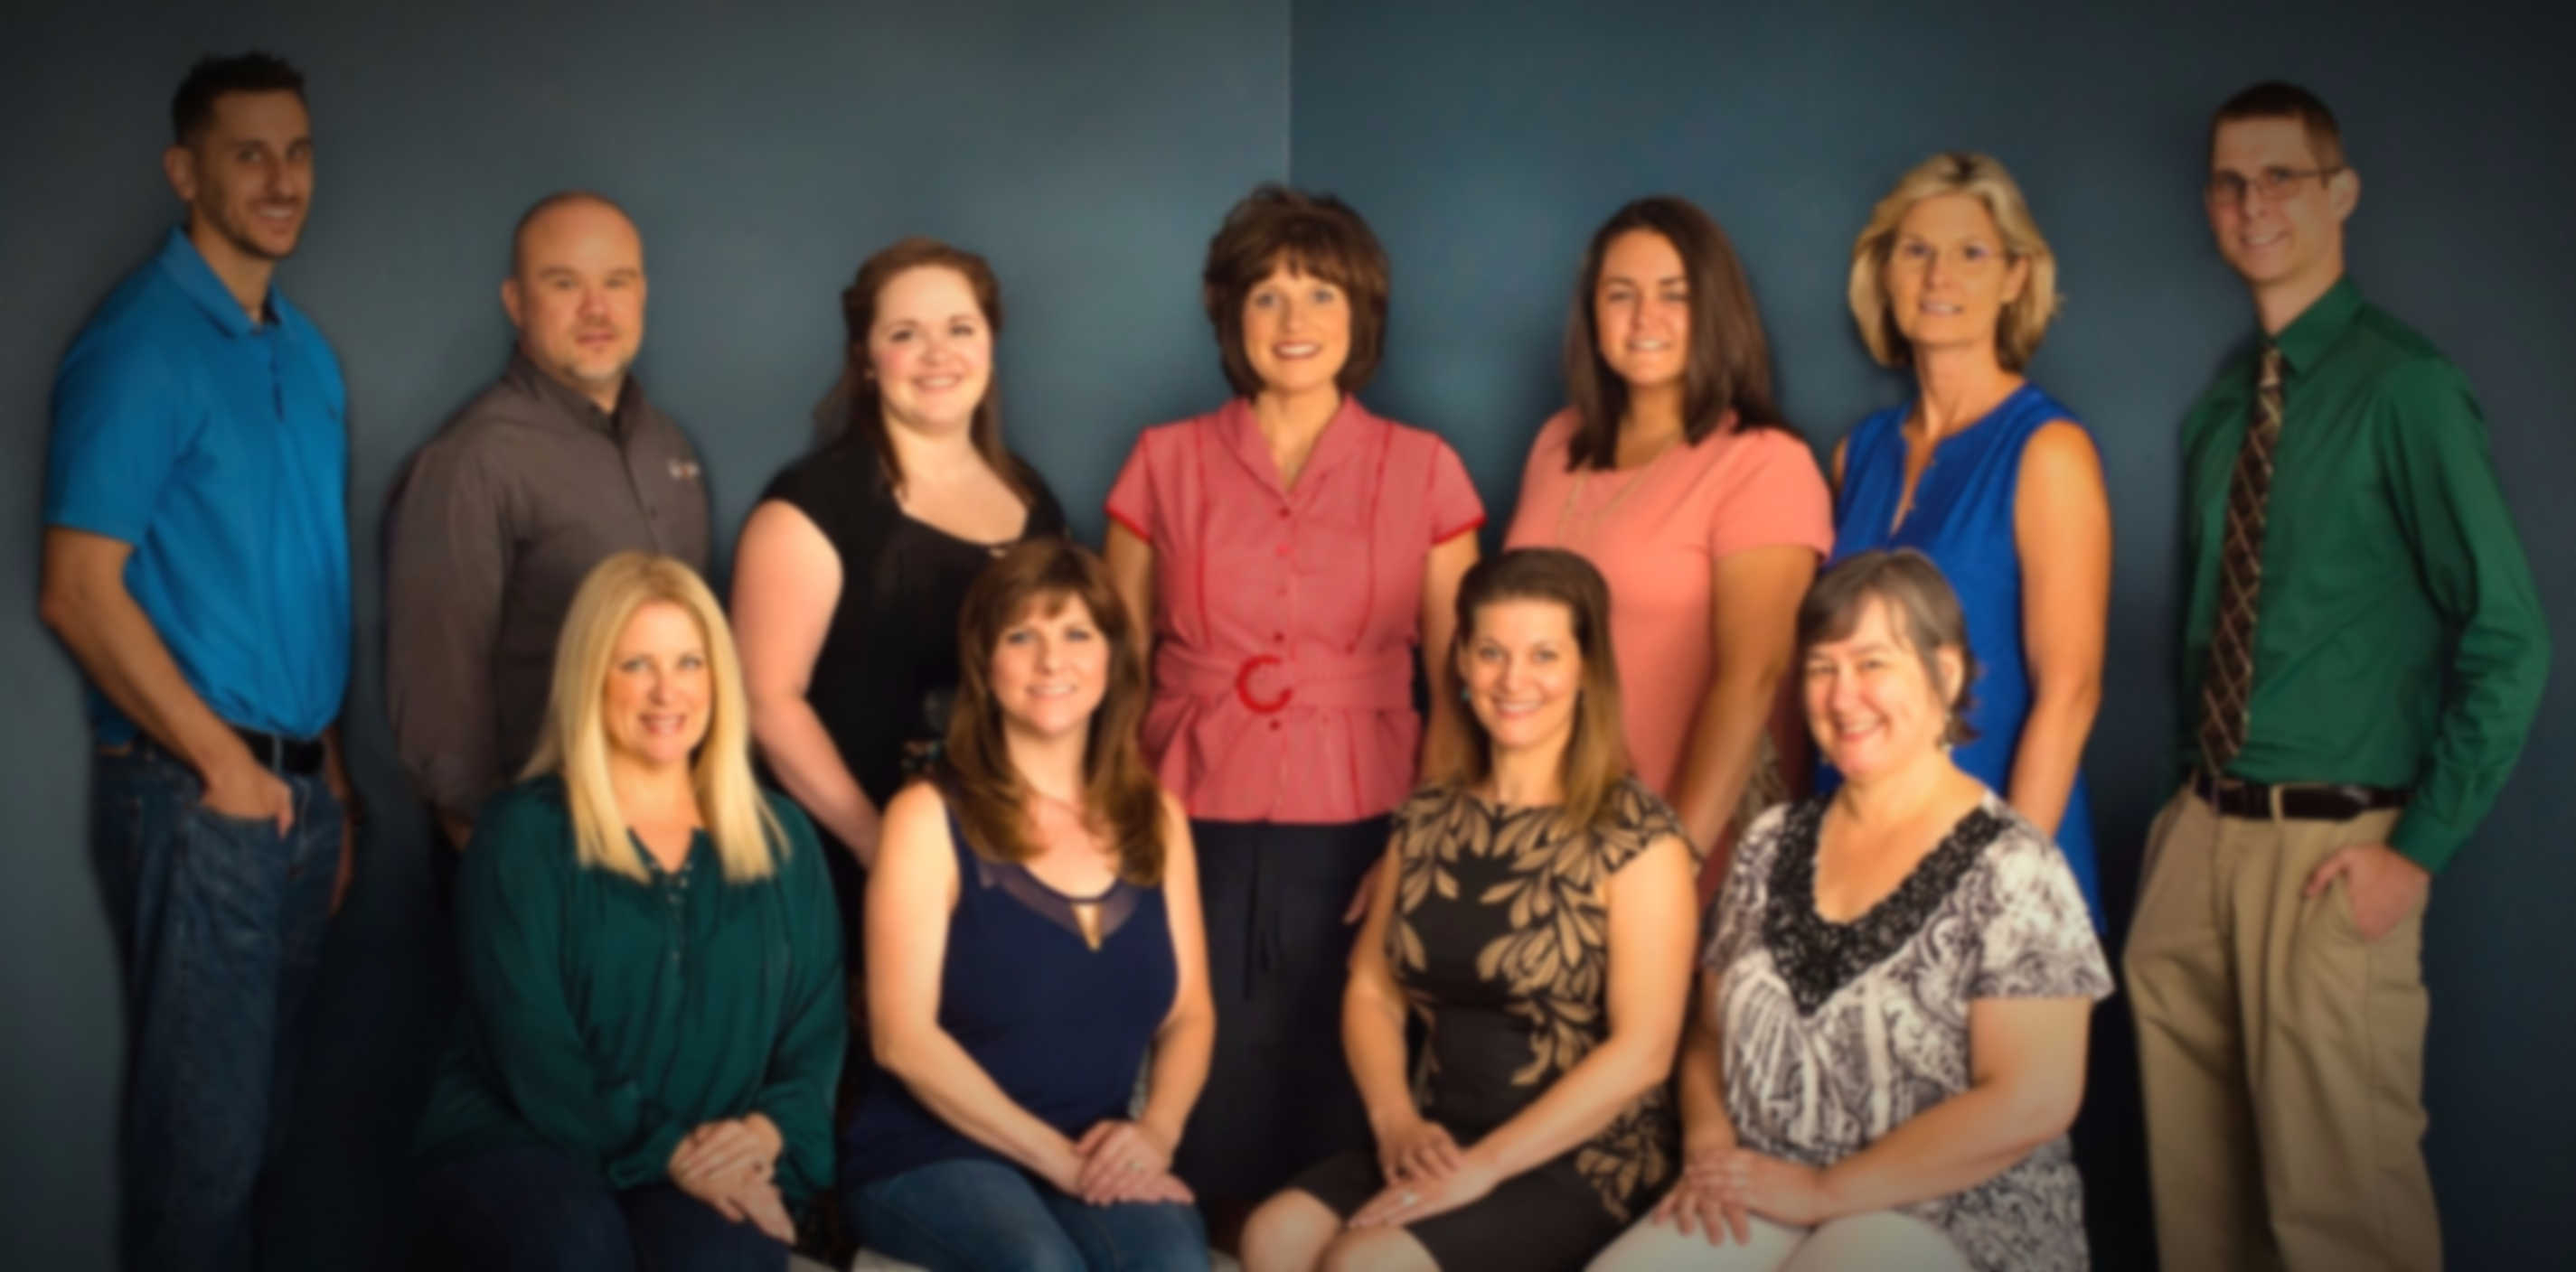
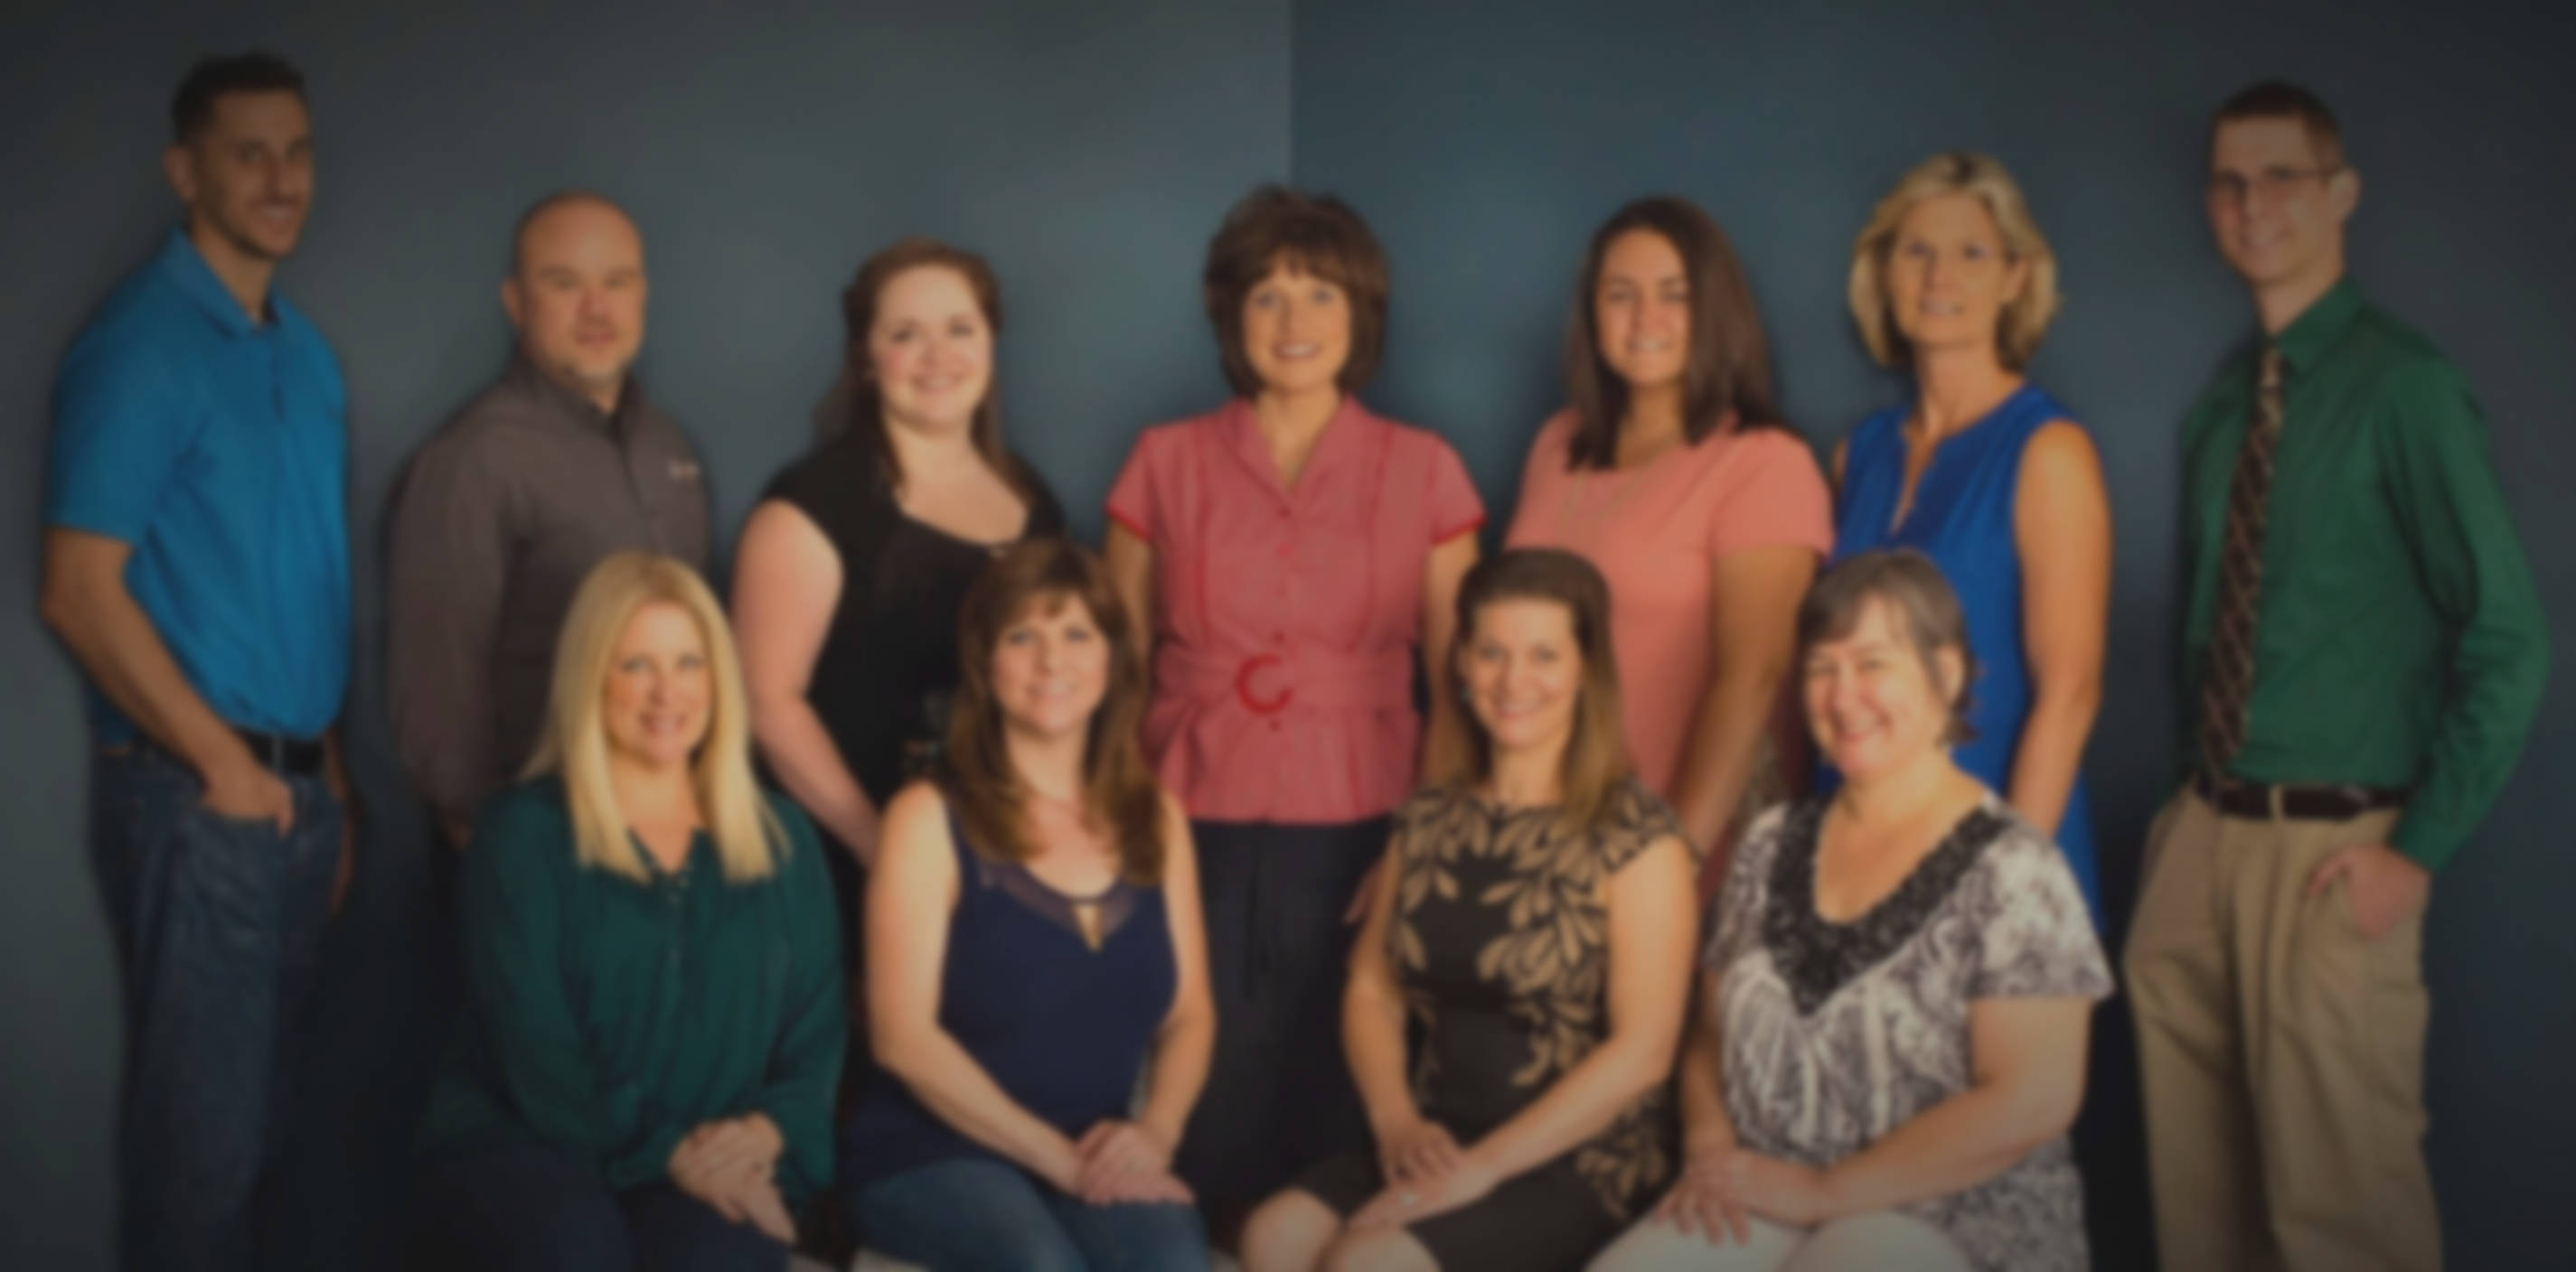
updated am-group image

diff --git a/evopro/portalhome.html b/evopro/portalhome.html
@@ -44,7 +44,6 @@
   </div>
 
 
-
 <!-- Account Management parallax image -->
   <div id="index-banner" class="parallax-container">
     <div class="section no-pad-bot">
@@ -60,14 +59,14 @@
         </div>
         <div class="row center">
           <h3>Hours</h3>
-          <p class="light">Monday to Friday from 7AM - 4PM PST</p>
+          <p class="parallax-text">Monday to Friday from 7AM - 4PM PST</p>
           <h3>Emergency Hours</h3>
-          <p class="light">Our emergency hours are only for clients that cannot log into the application.</p>
-          <p class="light">Monday to Friday 5AM-7AM and 4PM-6PM PST. Saturday and Sunday 6AM to 3PM PST. </p>
+          <p class="parallax-text">Our emergency hours are only for clients that cannot log into the application.</p>
+          <p class="parallax-text">Monday to Friday 5AM-7AM and 4PM-6PM PST, and Saturday and Sunday 6AM to 3PM PST. </p>
         </div>
       </div><!-- end container -->
     </div><!-- end section -->
-    <div class="parallax"><img src="https://cdn2.hubspot.net/hubfs/1835951/Evosus-Dec2015-Image/schedule-a-demo-bg.jpg?t=1496207419083" alt=""></div>
+    <div class="parallax"><img src="https://cdn.rawgit.com/evosus/freshdesk/Phase-1/img/am-group.jpg" alt=""></div>
   </div>
 
  <!--   Training   -->

diff --git a/evopro/custom.css b/evopro/custom.css
@@ -265,9 +265,16 @@ a.breadcrumb-item:hover {
   height: auto;
   color: rgba(255,255,255,.9);
 }
-  .parallax-container .section {
+.parallax-container .section {
     width: 100%;
-  }
+}
+.parallax-text {
+	margin: 10px 0;
+	line-height: 1em;
+	font-weight: 400;
+}
+
+
 
 .header {
 	margin-top: 50px;
